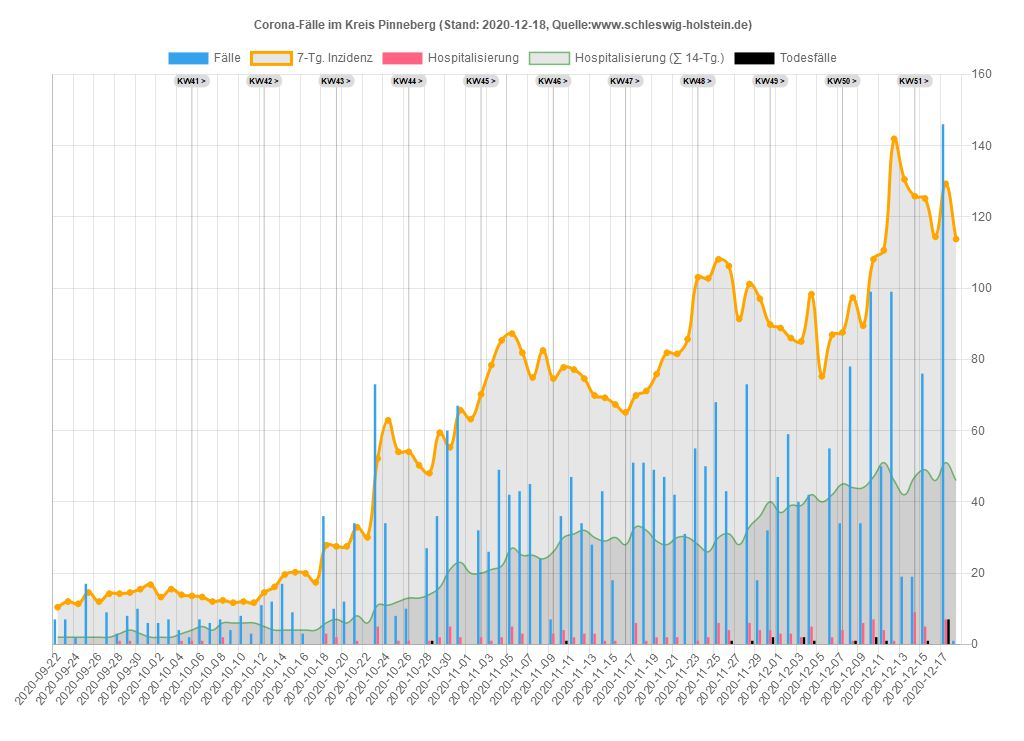
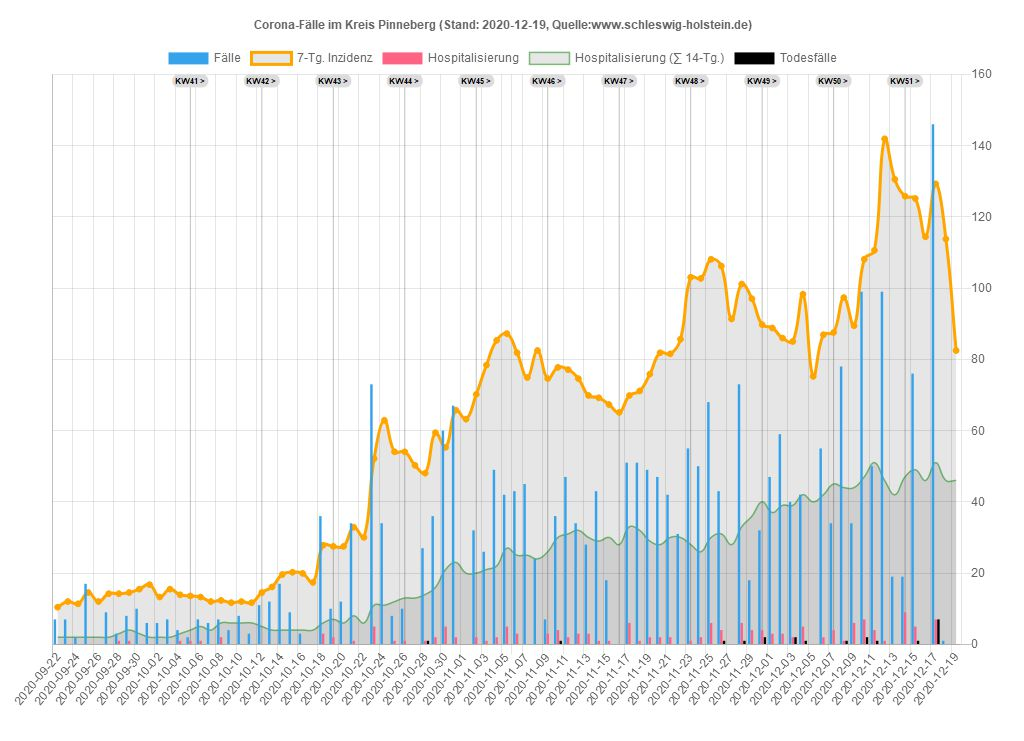
19.12.2020 21:21:00,46

Changed region(s): [[0.0312, 0.0931, 0.9375, 0.9622]]

diff --git a/sh/Data_SH.js b/sh/Data_SH.js
@@ -1,33 +1,33 @@
 var chdata={
-labels: ["2020-09-22","2020-09-23","2020-09-24","2020-09-25","2020-09-26","2020-09-27","2020-09-28","2020-09-29","2020-09-30","2020-10-01","2020-10-02","2020-10-03","2020-10-04","2020-10-05","2020-10-06","2020-10-07","2020-10-08","2020-10-09","2020-10-10","2020-10-11","2020-10-12","2020-10-13","2020-10-14","2020-10-15","2020-10-16","2020-10-17","2020-10-18","2020-10-19","2020-10-20","2020-10-21","2020-10-22","2020-10-23","2020-10-24","2020-10-25","2020-10-26","2020-10-27","2020-10-28","2020-10-29","2020-10-30","2020-10-31","2020-11-01","2020-11-02","2020-11-03","2020-11-04","2020-11-05","2020-11-06","2020-11-07","2020-11-08","2020-11-09","2020-11-10","2020-11-11","2020-11-12","2020-11-13","2020-11-14","2020-11-15","2020-11-16","2020-11-17","2020-11-18","2020-11-19","2020-11-20","2020-11-21","2020-11-22","2020-11-23","2020-11-24","2020-11-25","2020-11-26","2020-11-27","2020-11-28","2020-11-29","2020-11-30","2020-12-01","2020-12-02","2020-12-03","2020-12-04","2020-12-05","2020-12-06","2020-12-07","2020-12-08","2020-12-09","2020-12-10","2020-12-11","2020-12-12","2020-12-13","2020-12-14","2020-12-15","2020-12-16","2020-12-17","2020-12-18"],
+labels: ["2020-09-22","2020-09-23","2020-09-24","2020-09-25","2020-09-26","2020-09-27","2020-09-28","2020-09-29","2020-09-30","2020-10-01","2020-10-02","2020-10-03","2020-10-04","2020-10-05","2020-10-06","2020-10-07","2020-10-08","2020-10-09","2020-10-10","2020-10-11","2020-10-12","2020-10-13","2020-10-14","2020-10-15","2020-10-16","2020-10-17","2020-10-18","2020-10-19","2020-10-20","2020-10-21","2020-10-22","2020-10-23","2020-10-24","2020-10-25","2020-10-26","2020-10-27","2020-10-28","2020-10-29","2020-10-30","2020-10-31","2020-11-01","2020-11-02","2020-11-03","2020-11-04","2020-11-05","2020-11-06","2020-11-07","2020-11-08","2020-11-09","2020-11-10","2020-11-11","2020-11-12","2020-11-13","2020-11-14","2020-11-15","2020-11-16","2020-11-17","2020-11-18","2020-11-19","2020-11-20","2020-11-21","2020-11-22","2020-11-23","2020-11-24","2020-11-25","2020-11-26","2020-11-27","2020-11-28","2020-11-29","2020-11-30","2020-12-01","2020-12-02","2020-12-03","2020-12-04","2020-12-05","2020-12-06","2020-12-07","2020-12-08","2020-12-09","2020-12-10","2020-12-11","2020-12-12","2020-12-13","2020-12-14","2020-12-15","2020-12-16","2020-12-17","2020-12-18","2020-12-19"],
 datasets: [
 {label: 'Fälle',
 type: 'bar',
 backgroundColor: window.chartColors.blue,
-data: [38,42,63,53,15,15,38,48,49,27,50,16,24,39,54,45,79,54,26,25,65,65,65,55,90,26,88,163,111,160,136,236,142,115,164,164,280,215,313,265,161,142,236,262,220,274,233,177,215,252,247,192,296,158,161,100,294,208,264,250,153,121,145,251,256,225,180,219,71,81,244,240,245,318,234,154,183,314,297,529,384,472,140,241,486,322,602,508]},
+data: [38,42,63,53,15,15,38,48,49,27,50,16,24,39,54,45,79,54,26,25,65,65,65,55,90,26,88,163,111,160,136,236,142,115,164,164,280,215,313,265,161,142,236,262,220,274,233,177,215,252,247,192,296,158,161,100,294,208,264,250,153,121,145,251,256,225,180,219,71,81,244,240,245,318,234,154,183,314,297,529,384,472,140,241,486,322,602,508,431]},
 {label: '7-Tg. Inzidenz',
 type: 'line',
 pointBackgroundColor: 'orange',
 borderColor: 'orange',
-data: [7.23197027,7.88629139,8.74724023,9.40156135,9.33268544,9.16049567,9.09161977,9.4359993,9.67706498,8.43729865,8.33398478,8.36842274,8.67836432,8.71280227,8.91943,8.78167818,10.5724518,10.7102036,11.0545831,11.0890211,11.9844079,12.3632254,13.0519844,12.2254735,13.4652399,13.4652399,15.634831,19.0097504,20.5938963,23.8655019,26.6549761,31.6829174,35.67772,36.6075447,36.6419827,38.4671942,42.5997487,45.320347,47.9720694,52.2079377,53.7920836,53.0344486,55.5139813,54.8940981,55.0662879,53.7232077,52.6211932,53.1722004,55.6861711,56.2371783,55.720609,54.7563463,55.5139813,52.9311348,52.3801275,48.4197628,49.8661569,48.5230767,51.0026094,49.4184635,49.2462737,47.8687556,49.4184635,47.9376315,49.5906533,48.2475731,45.8369163,48.1098213,46.3879236,44.1838945,43.9428289,43.3918216,44.0805807,48.8330183,49.3495876,52.2079377,55.720609,58.1312658,60.0942291,69.874608,72.1475129,80.3437459,79.8616145,81.8590158,87.7823439,88.6432927,91.1572633,95.4275696]},
+data: [7.23197027,7.88629139,8.74724023,9.40156135,9.33268544,9.16049567,9.09161977,9.4359993,9.67706498,8.43729865,8.33398478,8.36842274,8.67836432,8.71280227,8.91943,8.78167818,10.5724518,10.7102036,11.0545831,11.0890211,11.9844079,12.3632254,13.0519844,12.2254735,13.4652399,13.4652399,15.634831,19.0097504,20.5938963,23.8655019,26.6549761,31.6829174,35.67772,36.6075447,36.6419827,38.4671942,42.5997487,45.320347,47.9720694,52.2079377,53.7920836,53.0344486,55.5139813,54.8940981,55.0662879,53.7232077,52.6211932,53.1722004,55.6861711,56.2371783,55.720609,54.7563463,55.5139813,52.9311348,52.3801275,48.4197628,49.8661569,48.5230767,51.0026094,49.4184635,49.2462737,47.8687556,49.4184635,47.9376315,49.5906533,48.2475731,45.8369163,48.1098213,46.3879236,44.1838945,43.9428289,43.3918216,44.0805807,48.8330183,49.3495876,52.2079377,55.720609,58.1312658,60.0942291,69.874608,72.1475129,80.3437459,79.8616145,81.8590158,87.7823439,88.6432927,91.1572633,95.4275696,94.0156135]},
 {label: 'Hospitalisierung',
 type: 'bar',
 backgroundColor: window.chartColors.red,
-data: [1,2,7,1,0,0,2,1,3,1,1,0,4,3,1,1,4,2,0,3,5,1,1,2,4,0,9,10,8,9,12,7,5,6,7,7,11,10,11,6,3,9,19,20,15,15,5,7,13,15,21,13,17,8,17,13,23,10,15,9,7,7,13,16,26,19,12,14,15,10,12,8,10,14,3,5,24,13,26,20,14,12,6,26,27,16,20,18]},
+data: [1,2,7,1,0,0,2,1,3,1,1,0,4,3,1,1,4,2,0,3,5,1,1,2,4,0,9,10,8,9,12,7,5,6,7,7,11,10,11,6,3,9,19,20,15,15,5,7,13,15,21,13,17,8,17,13,23,10,15,9,7,7,13,16,26,19,12,14,15,10,12,8,10,14,3,5,24,13,26,20,14,12,6,26,27,16,20,18,8]},
 {label: 'Hosp. (∑ 14-Tg.)',
 type: 'line',
 borderColor: 'rgba(0,255,0,0.5)',
 borderWidth: 1.5,
 pointRadius: 0,
-data: [12,12,20,22,22,22,22,23,23,21,22,21,24,26,26,25,22,23,23,26,29,29,27,28,31,31,36,43,50,58,66,71,76,79,81,87,97,105,112,118,112,111,122,133,136,144,144,145,151,159,169,172,178,180,194,198,202,192,192,186,188,188,188,189,194,200,195,201,199,196,185,183,178,183,179,177,188,185,185,186,188,186,177,193,208,216,226,230]},
+data: [12,12,20,22,22,22,22,23,23,21,22,21,24,26,26,25,22,23,23,26,29,29,27,28,31,31,36,43,50,58,66,71,76,79,81,87,97,105,112,118,112,111,122,133,136,144,144,145,151,159,169,172,178,180,194,198,202,192,192,186,188,188,188,189,194,200,195,201,199,196,185,183,178,183,179,177,188,185,185,186,188,186,177,193,208,216,226,230,235]},
 {label: 'Aktuell im Krankenhaus',
 type: 'line',
 pointBackgroundColor: 'green',
 borderColor: 'green',
-data: [6,6,6,6,6,6,6,11,11,11,11,14,14,15,15,14,14,14,13,13,18,18,18,21,24,24,24,24,31,31,31,31,51,51,58,58,58,58,58,58,58,94,110,114,119,118,124,120,126,116,113,119,112,116,116,148,145,151,141,141,141,141,155,142,122,113,118,118,118,124,114,110,109,114,114,114,131,122,128,132,133,133,133,177,181,194,201,212]},
+data: [6,6,6,6,6,6,6,11,11,11,11,14,14,15,15,14,14,14,13,13,18,18,18,21,24,24,24,24,31,31,31,31,51,51,58,58,58,58,58,58,58,94,110,114,119,118,124,120,126,116,113,119,112,116,116,148,145,151,141,141,141,141,155,142,122,113,118,118,118,124,114,110,109,114,114,114,131,122,128,132,133,133,133,177,181,194,201,212,236]},
 {label: 'Todesfälle',
 type: 'bar',
 backgroundColor: 'black',
-data: [0,0,0,0,0,0,0,1,0,0,0,0,0,0,0,0,0,0,0,0,0,1,0,0,0,0,0,0,0,0,1,0,0,3,0,0,3,4,1,0,2,6,7,2,2,6,0,1,4,3,5,0,5,1,3,5,0,2,2,2,1,0,3,4,1,3,3,1,4,2,3,1,4,1,0,1,4,2,5,7,7,1,2,2,6,7,11,3]},
+data: [0,0,0,0,0,0,0,1,0,0,0,0,0,0,0,0,0,0,0,0,0,1,0,0,0,0,0,0,0,0,1,0,0,3,0,0,3,4,1,0,2,6,7,2,2,6,0,1,4,3,5,0,5,1,3,5,0,2,2,2,1,0,3,4,1,3,3,1,4,2,3,1,4,1,0,1,4,2,5,7,7,1,2,2,6,7,11,3,2]},
 ]};
 

diff --git a/sh/Data_SH_Alter.js b/sh/Data_SH_Alter.js
@@ -98,7 +98,8 @@ var chdata={
 				{x: '2020-12-15', y: 'Alle', v: 87.5412782, casesum: 2542},{x: '2020-12-15', y: '00-09', v: 56.0918036, casesum: 144},{x: '2020-12-15', y: '10-19', v: 105.432109, casesum: 291},{x: '2020-12-15', y: '20-29', v: 119.701715, casesum: 383},{x: '2020-12-15', y: '30-39', v: 107.709565, casesum: 362},{x: '2020-12-15', y: '40-49', v: 99.8658053, casesum: 352},{x: '2020-12-15', y: '50-59', v: 83.5686646, casesum: 414},{x: '2020-12-15', y: '60-69', v: 51.9902071, casesum: 189},{x: '2020-12-15', y: '70-79', v: 41.2258263, casesum: 122},{x: '2020-12-15', y: '80-89', v: 100.088346, casesum: 179},{x: '2020-12-15', y: '90+', v: 367.851194, casesum: 106},
 				{x: '2020-12-16', y: 'Alle', v: 87.4035264, casesum: 2538},{x: '2020-12-16', y: '00-09', v: 57.2603828, casesum: 147},{x: '2020-12-16', y: '10-19', v: 102.895941, casesum: 284},{x: '2020-12-16', y: '20-29', v: 121.576937, casesum: 389},{x: '2020-12-16', y: '30-39', v: 107.412025, casesum: 361},{x: '2020-12-16', y: '40-49', v: 97.5961279, casesum: 344},{x: '2020-12-16', y: '50-59', v: 85.183518, casesum: 422},{x: '2020-12-16', y: '60-69', v: 52.8154485, casesum: 192},{x: '2020-12-16', y: '70-79', v: 41.2258263, casesum: 122},{x: '2020-12-16', y: '80-89', v: 101.206652, casesum: 181},{x: '2020-12-16', y: '90+', v: 333.148251, casesum: 96},
 				{x: '2020-12-17', y: 'Alle', v: 89.9863729, casesum: 2613},{x: '2020-12-17', y: '00-09', v: 59.9870677, casesum: 154},{x: '2020-12-17', y: '10-19', v: 102.895941, casesum: 284},{x: '2020-12-17', y: '20-29', v: 125.327383, casesum: 401},{x: '2020-12-17', y: '30-39', v: 107.114485, casesum: 360},{x: '2020-12-17', y: '40-49', v: 102.419192, casesum: 361},{x: '2020-12-17', y: '50-59', v: 93.8633551, casesum: 465},{x: '2020-12-17', y: '60-69', v: 56.666575, casesum: 206},{x: '2020-12-17', y: '70-79', v: 44.942909, casesum: 133},{x: '2020-12-17', y: '80-89', v: 93.9376656, casesum: 168},{x: '2020-12-17', y: '90+', v: 281.093837, casesum: 81},
-				{x: '2020-12-18', y: 'Alle', v: 94.0844894, casesum: 2732},{x: '2020-12-18', y: '00-09', v: 56.8708564, casesum: 146},{x: '2020-12-18', y: '10-19', v: 102.895941, casesum: 284},{x: '2020-12-18', y: '20-29', v: 134.390959, casesum: 430},{x: '2020-12-18', y: '30-39', v: 112.470209, casesum: 378},{x: '2020-12-18', y: '40-49', v: 108.660805, casesum: 383},{x: '2020-12-18', y: '50-59', v: 94.6707819, casesum: 469},{x: '2020-12-18', y: '60-69', v: 62.9934256, casesum: 229},{x: '2020-12-18', y: '70-79', v: 48.6599917, casesum: 144},{x: '2020-12-18', y: '80-89', v: 99.5291934, casesum: 178},{x: '2020-12-18', y: '90+', v: 315.79678, casesum: 91}
+				{x: '2020-12-18', y: 'Alle', v: 94.0844894, casesum: 2732},{x: '2020-12-18', y: '00-09', v: 56.8708564, casesum: 146},{x: '2020-12-18', y: '10-19', v: 102.895941, casesum: 284},{x: '2020-12-18', y: '20-29', v: 134.390959, casesum: 430},{x: '2020-12-18', y: '30-39', v: 112.470209, casesum: 378},{x: '2020-12-18', y: '40-49', v: 108.660805, casesum: 383},{x: '2020-12-18', y: '50-59', v: 94.6707819, casesum: 469},{x: '2020-12-18', y: '60-69', v: 62.9934256, casesum: 229},{x: '2020-12-18', y: '70-79', v: 48.6599917, casesum: 144},{x: '2020-12-18', y: '80-89', v: 99.5291934, casesum: 178},{x: '2020-12-18', y: '90+', v: 315.79678, casesum: 91},
+				{x: '2020-12-19', y: 'Alle', v: 92.9480369, casesum: 2699},{x: '2020-12-19', y: '00-09', v: 52.1965394, casesum: 134},{x: '2020-12-19', y: '10-19', v: 91.3020322, casesum: 252},{x: '2020-12-19', y: '20-29', v: 134.703496, casesum: 431},{x: '2020-12-19', y: '30-39', v: 108.899726, casesum: 366},{x: '2020-12-19', y: '40-49', v: 107.525967, casesum: 379},{x: '2020-12-19', y: '50-59', v: 99.9190555, casesum: 495},{x: '2020-12-19', y: '60-69', v: 65.4691497, casesum: 238},{x: '2020-12-19', y: '70-79', v: 48.9979083, casesum: 145},{x: '2020-12-19', y: '80-89', v: 98.4108878, casesum: 176},{x: '2020-12-19', y: '90+', v: 288.034425, casesum: 83}
 			],
 			backgroundColor: function(context) {
 				return inzColor(context.dataset.data[context.dataIndex].v)
@@ -106,7 +107,7 @@ var chdata={
 			width: function(context) {
 				const a = context.chart.chartArea
 				if (!a) return 0
-				return (a.right - a.left) / 95.5
+				return (a.right - a.left) / 96.5
 			},
 			height: function(context) {
 				const a = context.chart.chartArea
@@ -118,7 +119,7 @@ var chdata={
 	options: {
 		legend: { display: false },
 		scales: {
-			xAxes: [{type: 'category', labels: ["2020-09-15","2020-09-16","2020-09-17","2020-09-18","2020-09-19","2020-09-20","2020-09-21","2020-09-22","2020-09-23","2020-09-24","2020-09-25","2020-09-26","2020-09-27","2020-09-28","2020-09-29","2020-09-30","2020-10-01","2020-10-02","2020-10-03","2020-10-04","2020-10-05","2020-10-06","2020-10-07","2020-10-08","2020-10-09","2020-10-10","2020-10-11","2020-10-12","2020-10-13","2020-10-14","2020-10-15","2020-10-16","2020-10-17","2020-10-18","2020-10-19","2020-10-20","2020-10-21","2020-10-22","2020-10-23","2020-10-24","2020-10-25","2020-10-26","2020-10-27","2020-10-28","2020-10-29","2020-10-30","2020-10-31","2020-11-01","2020-11-02","2020-11-03","2020-11-04","2020-11-05","2020-11-06","2020-11-07","2020-11-08","2020-11-09","2020-11-10","2020-11-11","2020-11-12","2020-11-13","2020-11-14","2020-11-15","2020-11-16","2020-11-17","2020-11-18","2020-11-19","2020-11-20","2020-11-21","2020-11-22","2020-11-23","2020-11-24","2020-11-25","2020-11-26","2020-11-27","2020-11-28","2020-11-29","2020-11-30","2020-12-01","2020-12-02","2020-12-03","2020-12-04","2020-12-05","2020-12-06","2020-12-07","2020-12-08","2020-12-09","2020-12-10","2020-12-11","2020-12-12","2020-12-13","2020-12-14","2020-12-15","2020-12-16","2020-12-17","2020-12-18",], ticks: {display: true},gridlines:{display:false}}],
+			xAxes: [{type: 'category', labels: ["2020-09-15","2020-09-16","2020-09-17","2020-09-18","2020-09-19","2020-09-20","2020-09-21","2020-09-22","2020-09-23","2020-09-24","2020-09-25","2020-09-26","2020-09-27","2020-09-28","2020-09-29","2020-09-30","2020-10-01","2020-10-02","2020-10-03","2020-10-04","2020-10-05","2020-10-06","2020-10-07","2020-10-08","2020-10-09","2020-10-10","2020-10-11","2020-10-12","2020-10-13","2020-10-14","2020-10-15","2020-10-16","2020-10-17","2020-10-18","2020-10-19","2020-10-20","2020-10-21","2020-10-22","2020-10-23","2020-10-24","2020-10-25","2020-10-26","2020-10-27","2020-10-28","2020-10-29","2020-10-30","2020-10-31","2020-11-01","2020-11-02","2020-11-03","2020-11-04","2020-11-05","2020-11-06","2020-11-07","2020-11-08","2020-11-09","2020-11-10","2020-11-11","2020-11-12","2020-11-13","2020-11-14","2020-11-15","2020-11-16","2020-11-17","2020-11-18","2020-11-19","2020-11-20","2020-11-21","2020-11-22","2020-11-23","2020-11-24","2020-11-25","2020-11-26","2020-11-27","2020-11-28","2020-11-29","2020-11-30","2020-12-01","2020-12-02","2020-12-03","2020-12-04","2020-12-05","2020-12-06","2020-12-07","2020-12-08","2020-12-09","2020-12-10","2020-12-11","2020-12-12","2020-12-13","2020-12-14","2020-12-15","2020-12-16","2020-12-17","2020-12-18","2020-12-19",], ticks: {display: true},gridlines:{display:false}}],
 			yAxes: [{type: 'category', labels: ["Alle","00-09","10-19","20-29","30-39","40-49","50-59","60-69","70-79","80-89","90+"], offset:true, ticks: {display: true},gridlines:{display:false}}],
 		},
 	}

diff --git a/sh/Kreis_PI.js b/sh/Kreis_PI.js
@@ -1,33 +1,33 @@
 var chdata={
-labels: ["2020-09-22","2020-09-23","2020-09-24","2020-09-25","2020-09-26","2020-09-27","2020-09-28","2020-09-29","2020-09-30","2020-10-01","2020-10-02","2020-10-03","2020-10-04","2020-10-05","2020-10-06","2020-10-07","2020-10-08","2020-10-09","2020-10-10","2020-10-11","2020-10-12","2020-10-13","2020-10-14","2020-10-15","2020-10-16","2020-10-17","2020-10-18","2020-10-19","2020-10-20","2020-10-21","2020-10-22","2020-10-23","2020-10-24","2020-10-25","2020-10-26","2020-10-27","2020-10-28","2020-10-29","2020-10-30","2020-10-31","2020-11-01","2020-11-02","2020-11-03","2020-11-04","2020-11-05","2020-11-06","2020-11-07","2020-11-08","2020-11-09","2020-11-10","2020-11-11","2020-11-12","2020-11-13","2020-11-14","2020-11-15","2020-11-16","2020-11-17","2020-11-18","2020-11-19","2020-11-20","2020-11-21","2020-11-22","2020-11-23","2020-11-24","2020-11-25","2020-11-26","2020-11-27","2020-11-28","2020-11-29","2020-11-30","2020-12-01","2020-12-02","2020-12-03","2020-12-04","2020-12-05","2020-12-06","2020-12-07","2020-12-08","2020-12-09","2020-12-10","2020-12-11","2020-12-12","2020-12-13","2020-12-14","2020-12-15","2020-12-16","2020-12-17","2020-12-18"],
+labels: ["2020-09-22","2020-09-23","2020-09-24","2020-09-25","2020-09-26","2020-09-27","2020-09-28","2020-09-29","2020-09-30","2020-10-01","2020-10-02","2020-10-03","2020-10-04","2020-10-05","2020-10-06","2020-10-07","2020-10-08","2020-10-09","2020-10-10","2020-10-11","2020-10-12","2020-10-13","2020-10-14","2020-10-15","2020-10-16","2020-10-17","2020-10-18","2020-10-19","2020-10-20","2020-10-21","2020-10-22","2020-10-23","2020-10-24","2020-10-25","2020-10-26","2020-10-27","2020-10-28","2020-10-29","2020-10-30","2020-10-31","2020-11-01","2020-11-02","2020-11-03","2020-11-04","2020-11-05","2020-11-06","2020-11-07","2020-11-08","2020-11-09","2020-11-10","2020-11-11","2020-11-12","2020-11-13","2020-11-14","2020-11-15","2020-11-16","2020-11-17","2020-11-18","2020-11-19","2020-11-20","2020-11-21","2020-11-22","2020-11-23","2020-11-24","2020-11-25","2020-11-26","2020-11-27","2020-11-28","2020-11-29","2020-11-30","2020-12-01","2020-12-02","2020-12-03","2020-12-04","2020-12-05","2020-12-06","2020-12-07","2020-12-08","2020-12-09","2020-12-10","2020-12-11","2020-12-12","2020-12-13","2020-12-14","2020-12-15","2020-12-16","2020-12-17","2020-12-18","2020-12-19"],
 datasets: [
 {label: 'Fälle',
 type: 'bar',
 backgroundColor: window.chartColors.blue,
 yAxisID: 'first-y-axis',
-data: [7,7,2,17,0,9,3,8,10,6,6,7,4,2,7,6,7,4,8,3,11,12,17,9,3,0,36,10,12,34,0,73,34,8,10,0,27,36,60,67,0,32,26,49,42,43,45,24,7,36,47,34,28,43,18,0,51,51,49,47,42,31,55,50,68,43,0,73,18,32,47,59,40,42,0,55,34,78,34,99,50,99,19,19,76,0,146,1]},
+data: [7,7,2,17,0,9,3,8,10,6,6,7,4,2,7,6,7,4,8,3,11,12,17,9,3,0,36,10,12,34,0,73,34,8,10,0,27,36,60,67,0,32,26,49,42,43,45,24,7,36,47,34,28,43,18,0,51,51,49,47,42,31,55,50,68,43,0,73,18,32,47,59,40,42,0,55,34,78,34,99,50,99,19,19,76,0,146,1,0]},
 {label: '7-Tg. Inzidenz',
 type: 'line',
 pointBackgroundColor: 'orange',
 borderColor: 'orange',
 yAxisID: 'first-y-axis',
-data: [10.4300994,12.0104175,11.3782902,14.5389264,12.0104175,14.2228628,14.2228628,14.5389264,15.4871172,16.7513717,13.2746719,15.4871172,13.9067992,13.5907355,13.2746719,12.0104175,12.3264811,11.6943538,12.0104175,11.6943538,14.5389264,16.1192445,19.5959443,20.2280715,19.9120079,17.383499,27.8135983,27.4975347,27.4975347,32.8706162,30.0260436,52.1504969,62.8966598,54.0468786,54.0468786,50.2541151,48.0416698,59.41996,55.311133,65.7412324,63.2127235,70.166123,78.3837771,85.3371767,87.2335584,81.8604769,74.9070773,82.4926041,74.5910137,77.7516499,77.1195226,74.5910137,69.8500594,69.2179322,67.3215505,65.1091052,69.8500594,71.1143139,75.8552681,81.8604769,81.5444133,85.6532403,103.036739,102.720676,108.093757,106.197375,91.3423854,101.140358,97.0315305,89.7620673,88.8138765,85.9693039,85.021113,98.295785,75.2231409,86.9174948,87.549622,97.3475941,89.4460037,108.093757,110.622266,141.912564,130.534274,125.79332,125.161192,114.415029,129.270019,113.782902]},
+data: [10.4300994,12.0104175,11.3782902,14.5389264,12.0104175,14.2228628,14.2228628,14.5389264,15.4871172,16.7513717,13.2746719,15.4871172,13.9067992,13.5907355,13.2746719,12.0104175,12.3264811,11.6943538,12.0104175,11.6943538,14.5389264,16.1192445,19.5959443,20.2280715,19.9120079,17.383499,27.8135983,27.4975347,27.4975347,32.8706162,30.0260436,52.1504969,62.8966598,54.0468786,54.0468786,50.2541151,48.0416698,59.41996,55.311133,65.7412324,63.2127235,70.166123,78.3837771,85.3371767,87.2335584,81.8604769,74.9070773,82.4926041,74.5910137,77.7516499,77.1195226,74.5910137,69.8500594,69.2179322,67.3215505,65.1091052,69.8500594,71.1143139,75.8552681,81.8604769,81.5444133,85.6532403,103.036739,102.720676,108.093757,106.197375,91.3423854,101.140358,97.0315305,89.7620673,88.8138765,85.9693039,85.021113,98.295785,75.2231409,86.9174948,87.549622,97.3475941,89.4460037,108.093757,110.622266,141.912564,130.534274,125.79332,125.161192,114.415029,129.270019,113.782902,82.4926041]},
 {label: 'Hospitalisierung',
 type: 'bar',
 backgroundColor: window.chartColors.red,
 yAxisID: 'first-y-axis',
-data: [0,0,0,0,0,0,1,1,0,0,0,0,1,1,1,-1,2,0,0,0,0,0,0,0,0,0,3,2,0,1,0,5,0,1,1,0,1,2,5,2,0,2,1,2,5,3,0,0,3,4,2,3,3,1,1,0,6,1,2,2,2,0,1,2,6,4,0,6,4,4,3,3,2,5,0,2,4,1,6,7,4,1,0,9,5,0,7,0]},
+data: [0,0,0,0,0,0,1,1,0,0,0,0,1,1,1,-1,2,0,0,0,0,0,0,0,0,0,3,2,0,1,0,5,0,1,1,0,1,2,5,2,0,2,1,2,5,3,0,0,3,4,2,3,3,1,1,0,6,1,2,2,2,0,1,2,6,4,0,6,4,4,3,3,2,5,0,2,4,1,6,7,4,1,0,9,5,0,7,0,0]},
 {label: 'Hospitalisierung (∑ 14-Tg.)',
 type: 'line',
 pointRadius: 0,
 borderColor: 'rgba(0,128,0,0.5)',
 borderWidth: 1.5,
 yAxisID: 'first-y-axis',
-data: [2,2,2,2,2,2,3,4,3,2,2,2,3,4,5,4,6,6,6,6,5,4,4,4,4,4,6,7,6,8,6,11,11,12,13,13,14,16,21,23,20,20,21,22,27,25,25,24,26,30,31,32,30,29,30,28,33,32,29,28,30,30,28,26,30,31,28,33,36,40,37,39,39,42,40,42,45,44,44,47,51,46,42,47,49,46,51,46]},
+data: [2,2,2,2,2,2,3,4,3,2,2,2,3,4,5,4,6,6,6,6,5,4,4,4,4,4,6,7,6,8,6,11,11,12,13,13,14,16,21,23,20,20,21,22,27,25,25,24,26,30,31,32,30,29,30,28,33,32,29,28,30,30,28,26,30,31,28,33,36,40,37,39,39,42,40,42,45,44,44,47,51,46,42,47,49,46,51,46,46]},
 {label: 'Todesfälle',
 type: 'bar',
 backgroundColor: 'black',
 yAxisID: 'first-y-axis',
-data: [0,0,0,0,0,0,0,0,0,0,0,0,0,0,0,0,0,0,0,0,0,0,0,0,0,0,0,0,0,0,0,0,0,0,0,0,1,0,0,0,0,0,0,0,0,0,0,0,0,1,0,0,0,0,0,0,0,0,0,0,0,0,0,0,0,1,0,1,0,2,0,0,2,1,0,0,0,1,0,2,1,0,0,0,1,0,7,0]},
+data: [0,0,0,0,0,0,0,0,0,0,0,0,0,0,0,0,0,0,0,0,0,0,0,0,0,0,0,0,0,0,0,0,0,0,0,0,1,0,0,0,0,0,0,0,0,0,0,0,0,1,0,0,0,0,0,0,0,0,0,0,0,0,0,0,0,1,0,1,0,2,0,0,2,1,0,0,0,1,0,2,1,0,0,0,1,0,7,0,0]},
 ]};
 

diff --git a/sh/index_sh_alter.html b/sh/index_sh_alter.html
@@ -5,7 +5,7 @@
 <meta property="og:image" content="index_sh_alter.jpg" />
 <meta property="og:type" content="website" />
 <meta property="og:locale" content="de_DE" />
-<meta property="og:updated_time" content="2020-12-19T14:19:23+01:00" />
+<meta property="og:updated_time" content="2020-12-19T21:20:59+01:00" />
 <title>Altersverteilung der Corona-Fälle in Schleswig-Holstein</title>
 <link rel="stylesheet" href="../css/style.css" media="screen" type="text/css">
 <link rel="stylesheet" media="screen" href="Chart.min.css"> 

diff --git a/sh/index_pi_alter.html b/sh/index_pi_alter.html
@@ -5,7 +5,7 @@
 <meta property="og:image" content="index_pi_alter.jpg" />
 <meta property="og:type" content="website" />
 <meta property="og:locale" content="de_DE" />
-<meta property="og:updated_time" content="2020-12-19T14:19:23+01:00" />
+<meta property="og:updated_time" content="2020-12-19T21:20:59+01:00" />
 <title>Altersverteilung der Corona-Fälle im Kreis Pinneberg</title>
 <link rel="stylesheet" href="../css/style.css" media="screen" type="text/css">
 <link rel="stylesheet" media="screen" href="Chart.min.css"> 

diff --git a/sh/index.html b/sh/index.html
@@ -5,7 +5,7 @@
 <meta property="og:image" content="index.jpg" />
 <meta property="og:type" content="website" />
 <meta property="og:locale" content="de_DE" />
-<meta property="og:updated_time" content="2020-12-19T14:19:23+01:00" />
+<meta property="og:updated_time" content="2020-12-19T21:20:59+01:00" />
 <title>Corona-Fälle im Kreis Pinneberg</title>
 <link rel="stylesheet" href="../css/style.css" media="screen" type="text/css">
 <link rel="stylesheet" media="screen" href="Chart.min.css"> 
